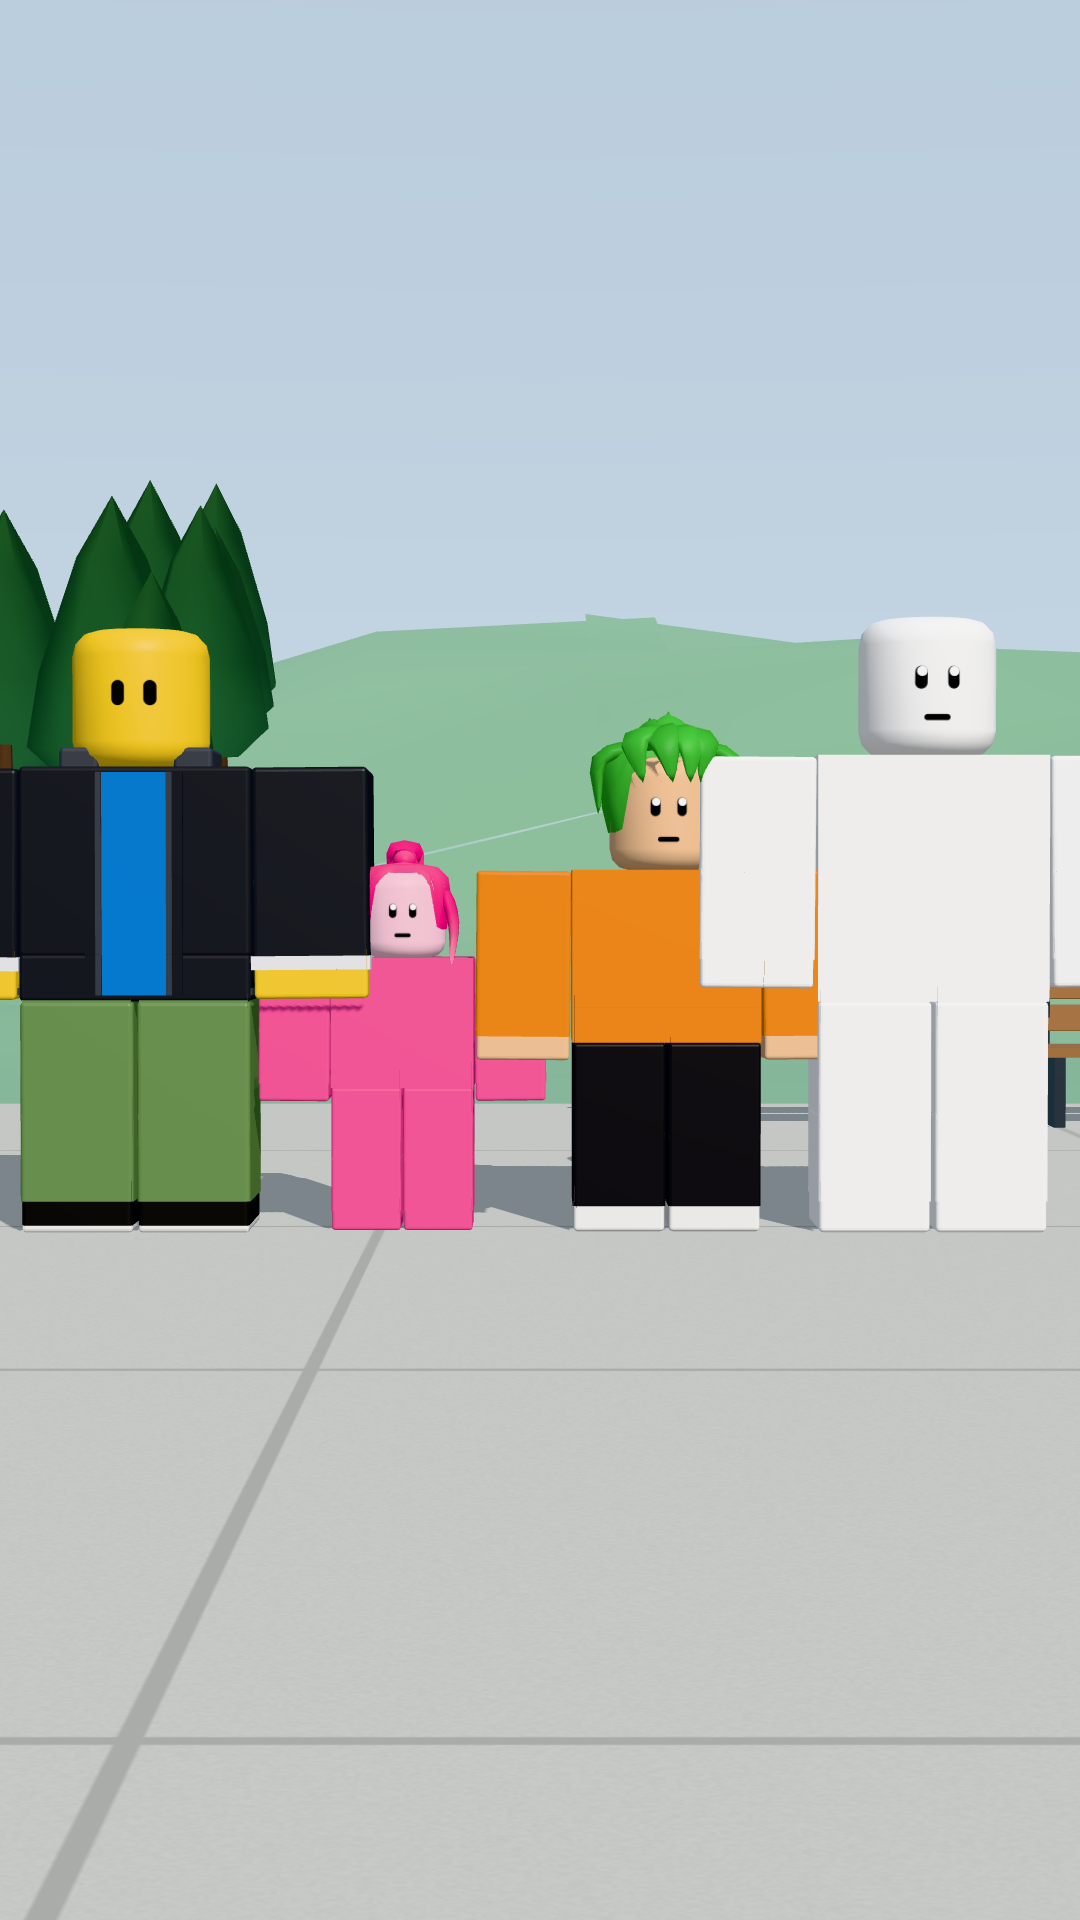
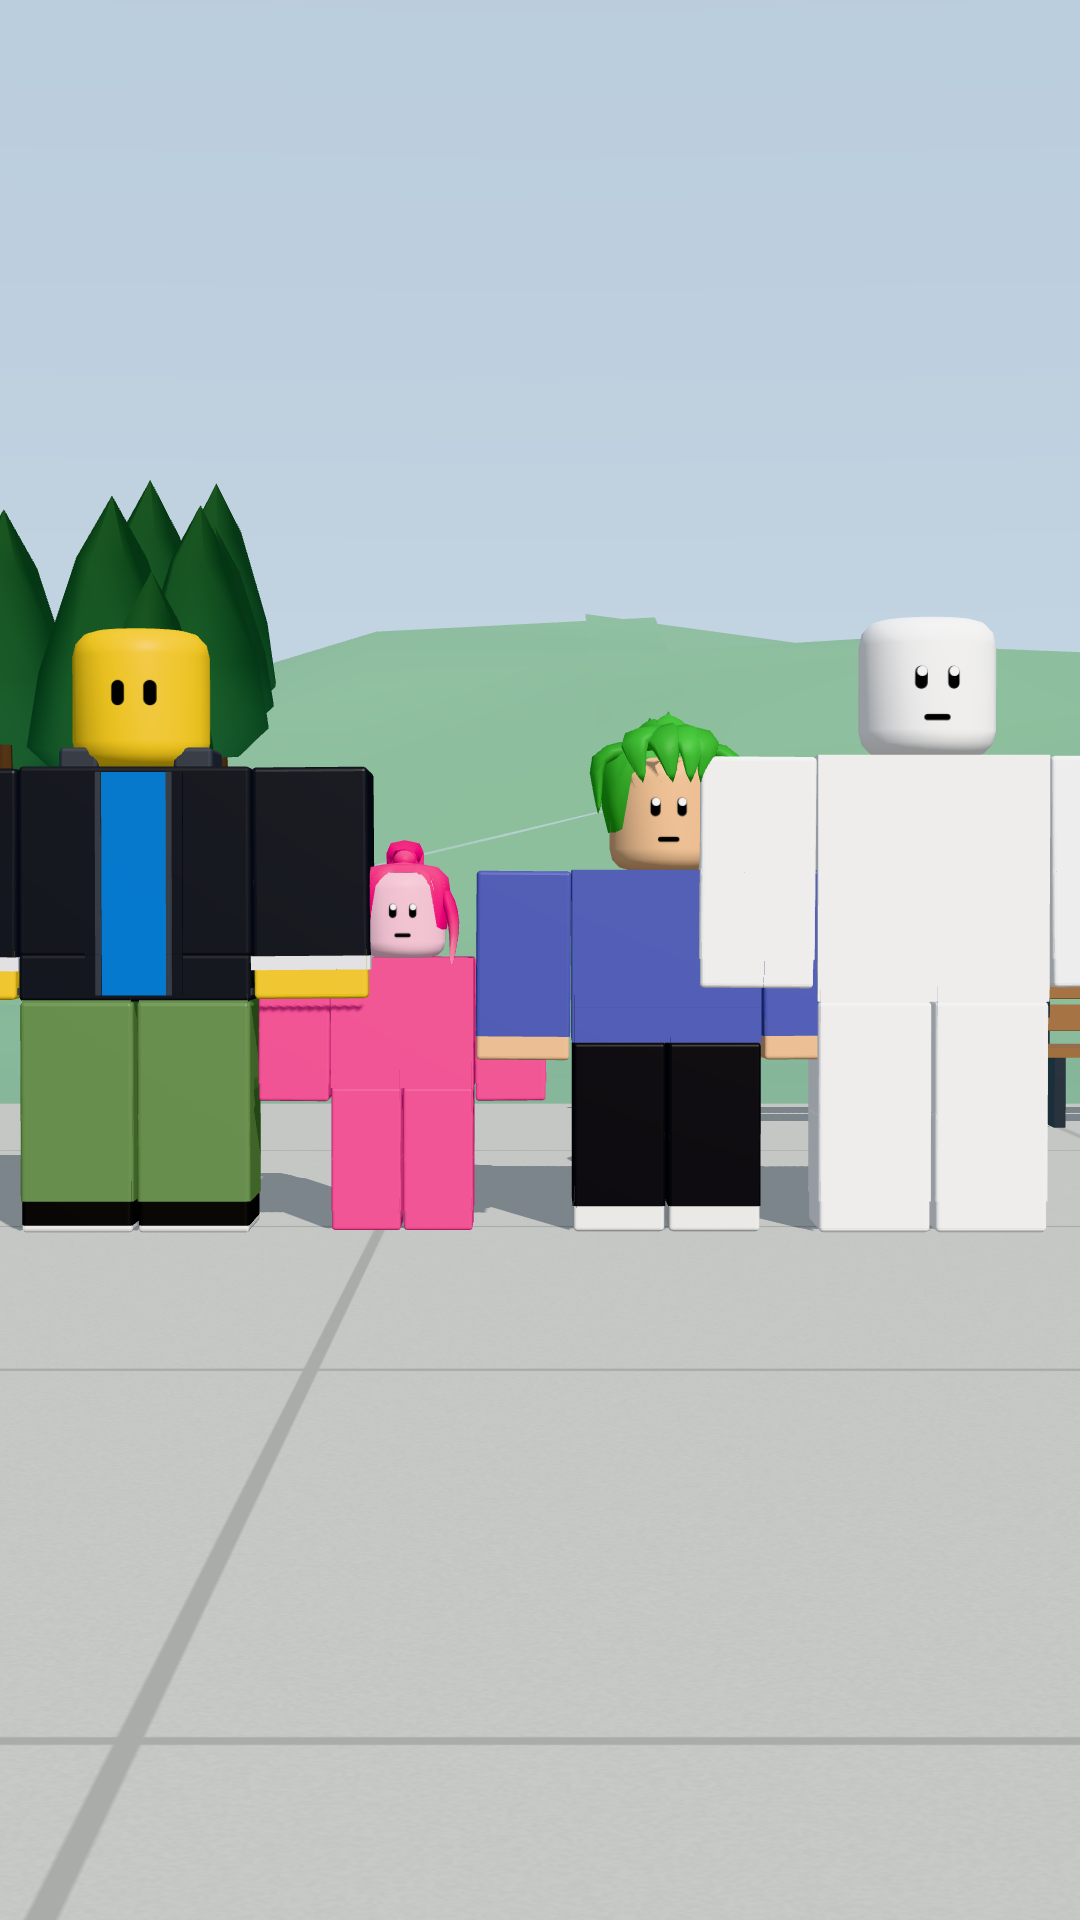
E1c: kid hoodie purple
Claude-Session: https://claude.ai/code/session_01DA8b5EYdN5ENmHdy5QJGuT

Changed region(s): [[0.4278, 0.4375, 0.7639, 0.5625]]

diff --git a/tests/v2/testpark.test.js b/tests/v2/testpark.test.js
@@ -76,7 +76,7 @@ test('troupe: DUMMY slot (torso +5 %) and costumes', () => {
   const b = resolveTroupe({troupe: 'LITTLE', costume: 'BITSY'}, data);
   assert.equal(b.skin, '#FFD0E2'); assert.equal(b.regions.torso.main, '#FF5FA2'); assert.equal(b.hair.color, '#FF3F8E'); assert.equal(b.scale, .62); assert.equal(b.hair.style, 'high_ponytail');
   const k = resolveTroupe({troupe: 'SECOND', costume: 'KID'}, data);
-  assert.equal(k.regions.torso.main, '#F28C28'); assert.equal(k.regions.legs.shoes, '#F4F4F4'); assert.equal(k.hair.color, '#4FB548');
+  assert.equal(k.regions.torso.main, '#5F6AC0'); assert.equal(k.regions.legs.shoes, '#F4F4F4'); assert.equal(k.hair.color, '#4FB548');
   assert.equal(resolveTroupe({troupe: 'DUMMY', costume: 'CROWD'}, data).tier, 'bg');
   assert.throws(() => resolveTroupe({troupe: 'LEAD', costume: 'BITSY'}, data));
   assert.equal(resolveTroupe({troupe: 'LITTLE'}, data).skin, data.troupe.LITTLE.skin, 'the slot itself is unchanged');

diff --git a/PROGRESS.md b/PROGRESS.md
@@ -1717,3 +1717,7 @@ Built: engine/actors.js preset `material` (matteOf); engine/episode.js opt-ins s
 Numbers: white lit 227.0 / 226.2, shadow 157.1 / 157.2, |a*| ≤ 0.58, |b*| ≤ 3.70 · bench mean 0.186 s/frame (B2 24 near + 96 far) · glove silhouette PASS ×4, pinch gap 15.6 px at 390 · Bitsy C* 58.3 > kid 54.1 · sign 17.3 / 17.0 px in the drone still · stability 0.102 % · Nobody 62/62, Touch Grass 20/20 identical · npm test 0, v2:test 243 + 67 py.
 Decisions: white gate fix pass 1 = the park's look (concrete-grey ground bounce, near-white sun), not the material; LOD distance to the chest (mark + 2.6); the hidden twin is never posed; key light 20° off the lens axis; drone still moved closer (fov 46) so the 24 × 5 sign reads; glove = 4 fingers + thumb, cuff band 2.1 (0.15 × 14), pinch shown at grip 0.75.
 Open: glove reads darker than the sky; Bitsy wins chroma by 4.2 only; fan foreground in S1/S2.
+
+## E1c — kid hoodie (2026-11-21)
+Owner asked for #7B4FD6: lineup gates FAILED by colour (rendered kid C* 58.85 > Bitsy 58.33; hue gap 55.4°; on paper C* 79.6 vs 66.5, gap 49.5°). Owner chose #5F6AC0 (edge #4A54A0).
+Numbers: Bitsy C* 58.32 (highest), kid 35.5, hero 16.2, DUMMY 0.42; kid–Bitsy Lab hue gap 72.7° PASS (`review/testpark/lineup-chroma.json`); Nobody 62/62, Touch Grass 20/20 identical; npm test 0; v2:test 243 + 67 py. Only lineup.png re-rendered (stills/S7, contact, phone-390 still show the orange hoodie).
